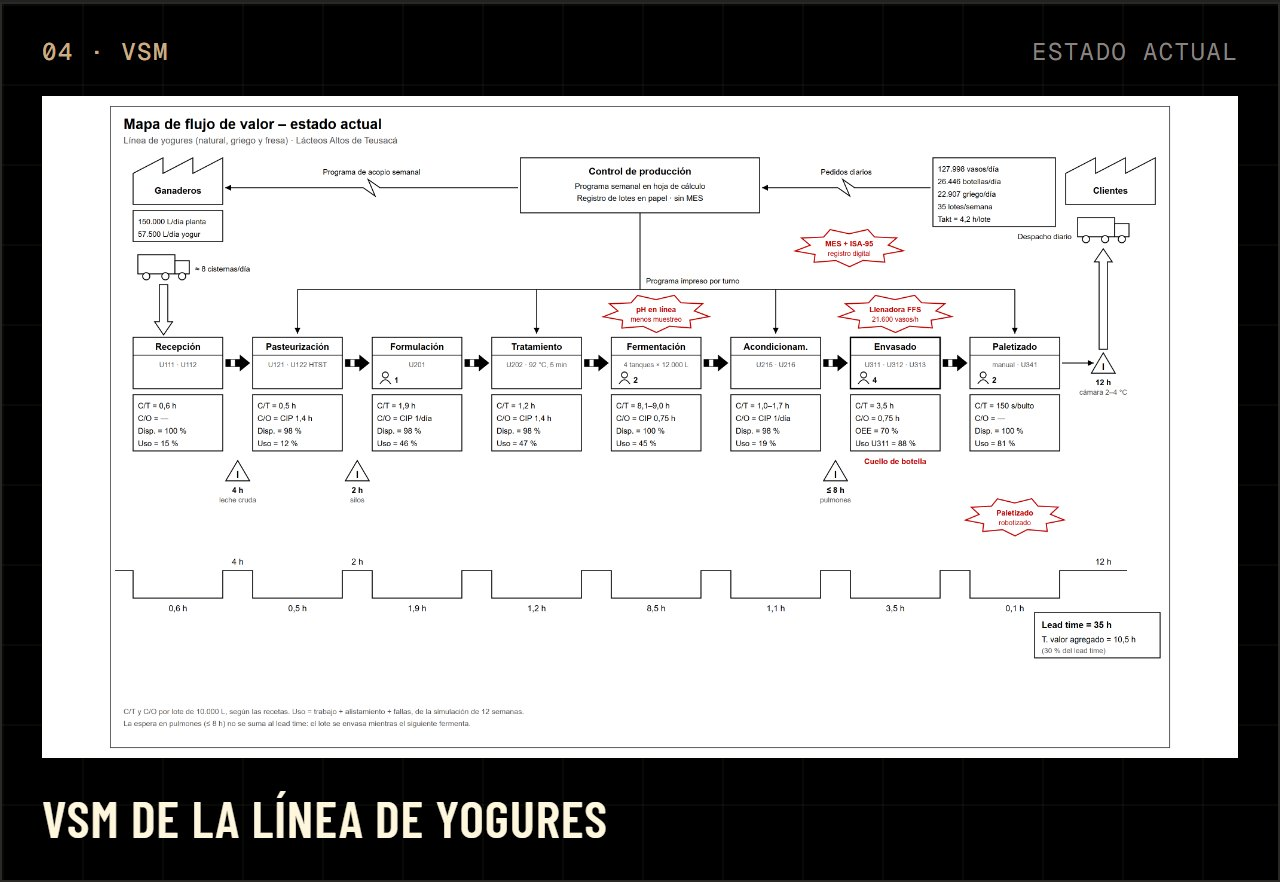
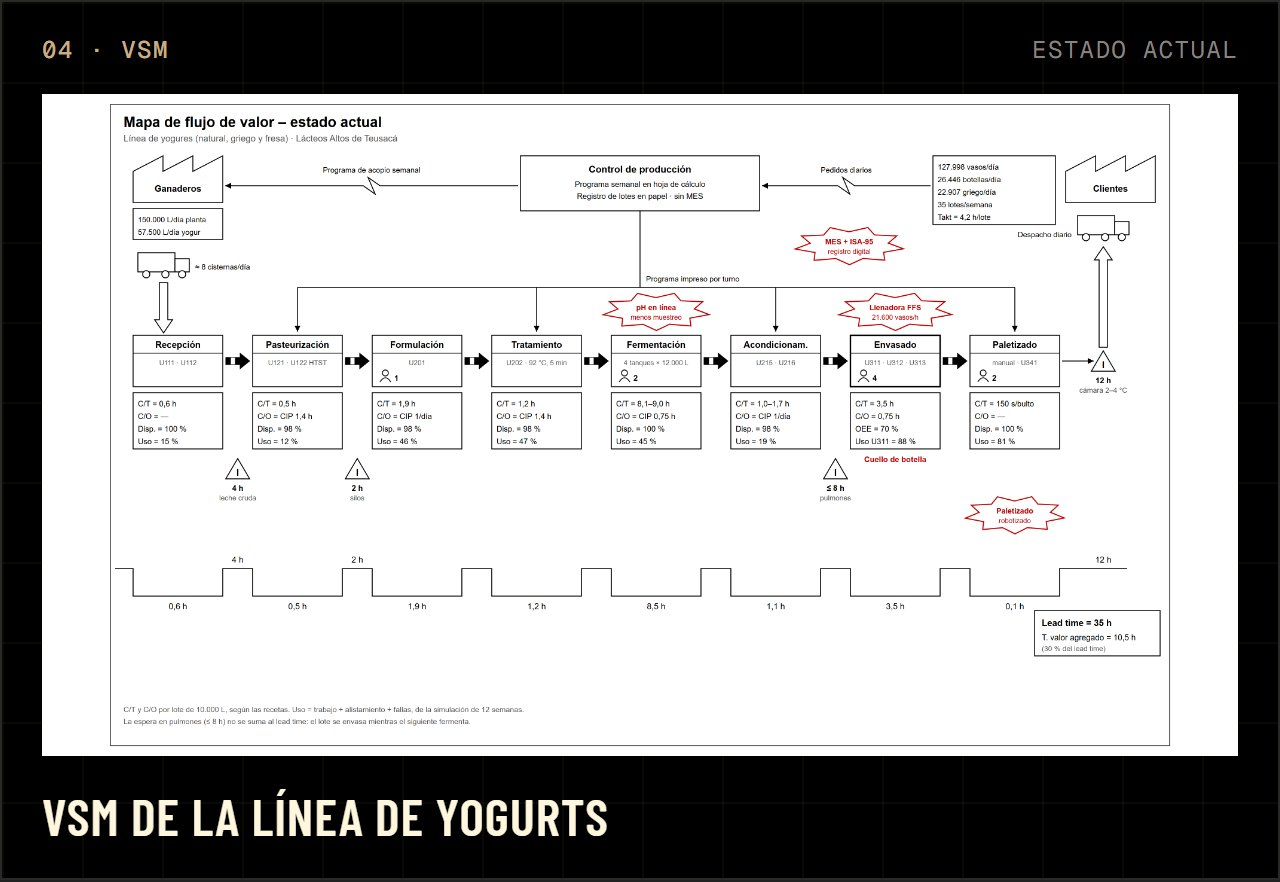
Página web · README

diff --git a/README.md b/README.md
@@ -56,11 +56,11 @@
 
 La planta recibe la leche por un tronco común (recepción, pasteurización y silos) y la reparte entre tres líneas por lotes, según el acta del 9 de octubre de 2026.
 
-<img src=".github/assets/cifras.png" alt="Producción diaria: 150.000 L de leche recibida, 57.600 L en yogures, 50.000 L en quesos y 43.000 L en leche UHT" width="100%">
+<img src=".github/assets/cifras.png" alt="Producción diaria: 150.000 L de leche recibida, 57.600 L en yogurts, 50.000 L en quesos y 43.000 L en leche UHT" width="100%">
 
 | Línea | Productos | Alcance en el proyecto |
 |:--|:--|:--|
-| **Yogures** | Fresa, natural y griego | Línea detallada: recetas ISA-88, simulación, VSM, layout y espagueti |
+| **Yogurts** | Fresa, natural y griego | Línea detallada: recetas ISA-88, simulación, VSM, layout y espagueti |
 | **Quesos** | Mozzarella, quesillo y doble crema | Recetas básicas y simulación de la planta |
 | **Leche UHT** | Entera, descremada y con chocolate | Recetas básicas y simulación de la planta |
 
@@ -75,11 +75,11 @@ Análisis de la planta en su estado actual, antes de la propuesta de automatizac
   <tr>
     <td width="50%" valign="top">
       <a href="02_gestion-produccion/simulacion-tecnomatix/planta-150k"><img src=".github/assets/avances/d1.jpg" alt="Modelo 3D de la planta con tres líneas en Tecnomatix" width="100%"></a>
-      <sub>Planta completa en Plant Simulation: tronco común y líneas de yogures, quesos y leche UHT.</sub>
+      <sub>Planta completa en Plant Simulation: tronco común y líneas de yogurts, quesos y leche UHT.</sub>
     </td>
     <td width="50%" valign="top">
-      <a href="02_gestion-produccion/simulacion-tecnomatix/linea-yogures"><img src=".github/assets/avances/d2.jpg" alt="Modelo 3D de la línea de yogures con paletizado manual" width="100%"></a>
-      <sub>Línea de yogures en seis secciones, de la recepción al despacho, con paletizado manual.</sub>
+      <a href="02_gestion-produccion/simulacion-tecnomatix/linea-yogures"><img src=".github/assets/avances/d2.jpg" alt="Modelo 3D de la línea de yogurts con paletizado manual" width="100%"></a>
+      <sub>Línea de yogurts en seis secciones, de la recepción al despacho, con paletizado manual.</sub>
     </td>
   </tr>
   <tr>
@@ -88,8 +88,8 @@ Análisis de la planta en su estado actual, antes de la propuesta de automatizac
       <sub>Mapa de flujo de valor de las tres líneas sobre el tronco común.</sub>
     </td>
     <td width="50%" valign="top">
-      <a href="02_gestion-produccion/vsm/vsm_linea_yogures_clasico.pdf"><img src=".github/assets/avances/d4.jpg" alt="VSM de la línea de yogures" width="100%"></a>
-      <sub>Mapa de flujo de valor de la línea de yogures, de la recepción a la cámara.</sub>
+      <a href="02_gestion-produccion/vsm/vsm_linea_yogures_clasico.pdf"><img src=".github/assets/avances/d4.jpg" alt="VSM de la línea de yogurts" width="100%"></a>
+      <sub>Mapa de flujo de valor de la línea de yogurts, de la recepción a la cámara.</sub>
     </td>
   </tr>
   <tr>
@@ -98,8 +98,8 @@ Análisis de la planta en su estado actual, antes de la propuesta de automatizac
       <sub>Plano de la nave de 110 × 60 m con las tres líneas.</sub>
     </td>
     <td width="50%" valign="top">
-      <a href="02_gestion-produccion/distribucion-planta/espagueti_linea_yogures_actual_clasico.pdf"><img src=".github/assets/avances/d6.jpg" alt="Diagrama de espagueti de la línea de yogures" width="100%"></a>
-      <sub>Recorridos diarios de personas y montacargas en la línea de yogures.</sub>
+      <a href="02_gestion-produccion/distribucion-planta/espagueti_linea_yogures_actual_clasico.pdf"><img src=".github/assets/avances/d6.jpg" alt="Diagrama de espagueti de la línea de yogurts" width="100%"></a>
+      <sub>Recorridos diarios de personas y montacargas en la línea de yogurts.</sub>
     </td>
   </tr>
 </table>
@@ -109,9 +109,9 @@ Análisis de la planta en su estado actual, antes de la propuesta de automatizac
 | Documento | Contenido |
 |:--|:--|
 | [Modelo ISA-88](01_transformacion-digital/isa88) | Modelo físico, modelo procedimental y recetas maestras de las 9 referencias |
-| [Recetas de la línea de yogures](01_transformacion-digital/isa88/recetas/Recetas_linea_yogures_v1.8.pdf) | Fresa, natural y griego, de la recepción al despacho |
-| [Recetas básicas de la planta](01_transformacion-digital/isa88/recetas/Recetas_basicas_planta_v1.0.pdf) | Yogures, quesos y leche UHT con sus máquinas |
-| [Layout de la línea de yogures](02_gestion-produccion/distribucion-planta/layout_linea_yogures_actual_clasico.pdf) | La línea de yogures dentro de la nave, con paletizado manual |
+| [Recetas de la línea de yogurts](01_transformacion-digital/isa88/recetas/Recetas_linea_yogures_v1.8.pdf) | Fresa, natural y griego, de la recepción al despacho |
+| [Recetas básicas de la planta](01_transformacion-digital/isa88/recetas/Recetas_basicas_planta_v1.0.pdf) | Yogurts, quesos y leche UHT con sus máquinas |
+| [Layout de la línea de yogurts](02_gestion-produccion/distribucion-planta/layout_linea_yogures_actual_clasico.pdf) | La línea de yogurts dentro de la nave, con paletizado manual |
 | [EDT](03_planeacion-proyecto/edt-cronograma/EDT_Completo_v1.0.pdf) y [cronograma](03_planeacion-proyecto/edt-cronograma/Cronograma_Planta_Lactea_v1.0.pdf) | Estructura de desglose del trabajo y plan de actividades |
 
 <sub>Las cifras son valores de diseño o de simulación, no medidas en planta.</sub>

diff --git a/web/src/content/lineas/2-yogurt.md b/web/src/content/lineas/2-yogurt.md
@@ -1,12 +1,12 @@
 ---
-nombre: Yogures
+nombre: Yogurts
 orden: 1
 detallada: true
-resumen: La línea que desarrollamos en detalle. Yogur con fresa, natural y griego en lotes de 10.000 L; hoy procesa ≈ 57.600 L/día porque la llenadora de vasos está al límite.
+resumen: La línea que desarrollamos en detalle. Yogurt con fresa, natural y griego en lotes de 10.000 L; hoy procesa ≈ 57.600 L/día porque la llenadora de vasos está al límite.
 productos:
   - codigo: YF
-    nombre: Yogur con fresa
-    descripcion: Yogur batido con azúcar y preparado de fresa en trozos, que se mezcla en línea al 13 % después de fermentar.
+    nombre: Yogurt con fresa
+    descripcion: Yogurt batido con azúcar y preparado de fresa en trozos, que se mezcla en línea al 13 % después de fermentar.
     datos:
       - { k: Lotes por semana, v: "13" }
       - { k: Fermentación, v: "43 °C hasta pH 4,50 · 5,25 h" }
@@ -17,8 +17,8 @@ productos:
       - "Botella 1.000 g · U312"
       - "Botella 1.750 g · U312"
   - codigo: YN
-    nombre: Yogur natural
-    descripcion: Yogur batido sin azúcar ni fruta. Abre la semana de producción para no arrastrar azúcar ni fruta a los demás lotes.
+    nombre: Yogurt natural
+    descripcion: Yogurt batido sin azúcar ni fruta. Abre la semana de producción para no arrastrar azúcar ni fruta a los demás lotes.
     datos:
       - { k: Lotes por semana, v: "13" }
       - { k: Fermentación, v: "43 °C hasta pH 4,50 · 5,0 h" }
@@ -28,8 +28,8 @@ productos:
       - "Vaso 200 g · U311"
       - "Botella 1.000 g · U312"
   - codigo: YG
-    nombre: Yogur griego
-    descripcion: Yogur colado en el separador U216, que retira el suero ácido para concentrar la proteína; se usan ≈ 3,2 kg de leche por kg.
+    nombre: Yogurt griego
+    descripcion: Yogurt colado en el separador U216, que retira el suero ácido para concentrar la proteína; se usan ≈ 3,2 kg de leche por kg.
     datos:
       - { k: Lotes por semana, v: "9" }
       - { k: Fermentación, v: "43 °C hasta pH 4,55 · 5,5 h" }

diff --git a/web/src/content/textos/solucion.md b/web/src/content/textos/solucion.md
@@ -59,7 +59,7 @@ niveles:
   - codigo: N0
     nombre: Proceso
     herramienta: Gemelo digital en Siemens NX
-    funcion: La transformación física. La leche se recibe, se trata y se convierte en yogures, quesos y leche UHT.
+    funcion: La transformación física. La leche se recibe, se trata y se convierte en yogurts, quesos y leche UHT.
     sube: []
     baja: []
 ---

diff --git a/web/src/content/lineas/0-preparacion-leche.md b/web/src/content/lineas/0-preparacion-leche.md
@@ -28,6 +28,6 @@ etapas:
   - nombre: Silos por línea
     tipo: Batch
     variables:
-      - "Yogures U123A–C · quesos U124A/B · leche U125A/B"
+      - "Yogurts U123A–C · quesos U124A/B · leche U125A/B"
       - "2–4 °C, máximo 24 h"
 ---
